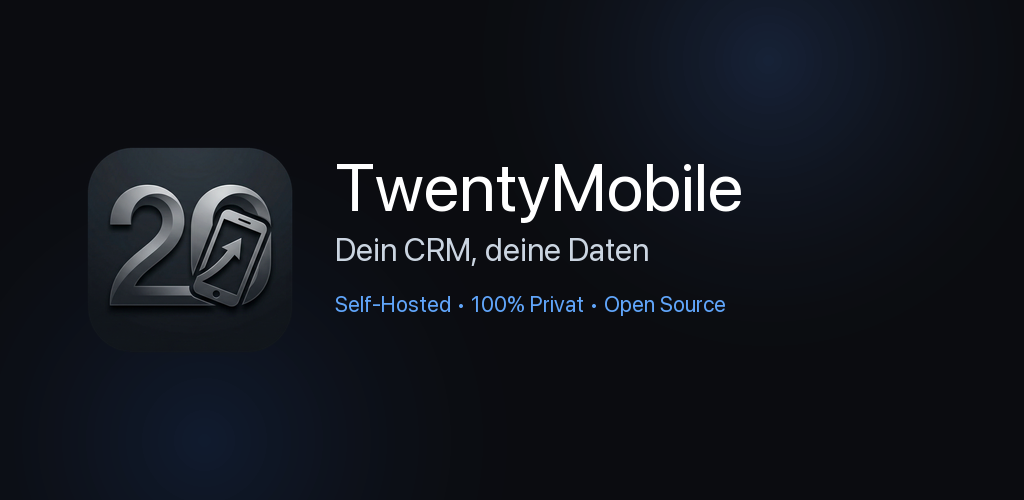
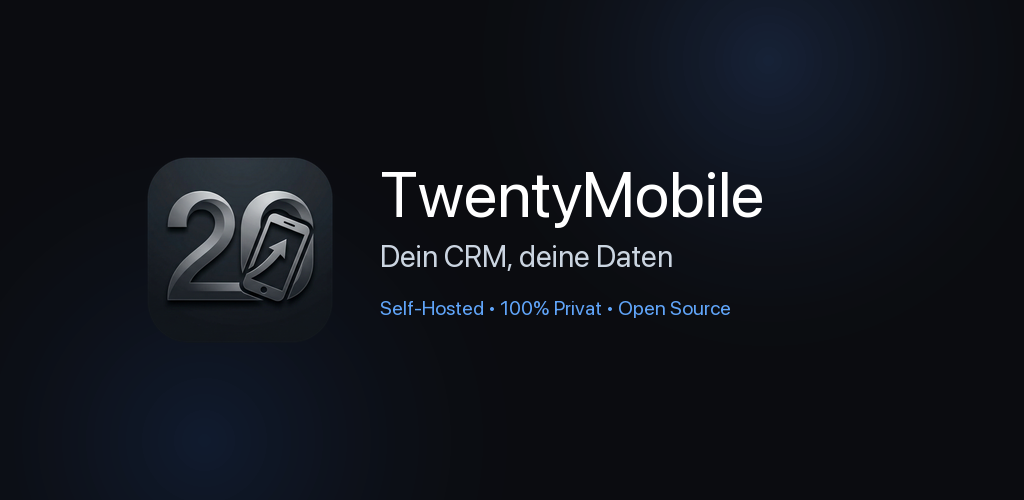
style(store): applica safe area 15% alle feature graphic per visibilita ottimale su Google Play

Changed region(s): [[0.0625, 0.27, 0.75, 0.63], [0.3125, 0.57, 0.7188, 0.63]]

diff --git a/scripts/store/generate_mockups.py b/scripts/store/generate_mockups.py
@@ -699,7 +699,7 @@ def render_dual_mockup(cfg_profile, slide_idx, text_data, raw_screen_left, raw_s
 
 
 def generate_feature_graphic(loc_dir, copy_item, icon_src):
-    """Feature Graphic Google Play 1024x500 pulita e minimale in stile Twenty CRM."""
+    """Feature Graphic Google Play 1024x500 con Safe Area e ampi margini esterni (~15%)."""
     w, h = 1024, 500
     fg = create_twenty_gradient(w, h)
     
@@ -716,29 +716,29 @@ def generate_feature_graphic(loc_dir, copy_item, icon_src):
     icon_clean = Image.new("RGBA", icon_master.size, (0, 0, 0, 0))
     icon_clean.paste(icon_master, (0, 0), mask)
     
-    icon_sz = 210
+    # Icona con margini safe aumentati: x = 145 (14.2% margine sinistro)
+    icon_sz = 190
     icon_img = icon_clean.resize((icon_sz, icon_sz), Image.Resampling.LANCZOS)
-    icon_pos = (85, 145)
+    icon_pos = (145, 155)
     
     fg_rgba = fg.convert("RGBA")
-    # Incolla l'icona pura e pulita: nessun contorno blu, nessuna ombra nera/alone
     fg_rgba.paste(icon_img, icon_pos, icon_img)
     draw = ImageDraw.Draw(fg_rgba)
     
-    # Blocco testi centrato più in alto, allineato con la sommità del logo
-    tx = 335
+    # Blocco testi con safe area: margine sinistro tx = 380, ben distante da tutti i bordi
+    tx = 380
     
-    # 1. Titolo "TwentyMobile" (grande, bianco brillante, posizionato più in alto)
-    t_font = get_font(68, bold=True)
-    draw.text((tx, 145), copy_item["fg_title"], font=t_font, fill=(255, 255, 255))
+    # 1. Titolo "TwentyMobile" (grande, bianco brillante, allineato con il logo)
+    t_font = get_font(64, bold=True)
+    draw.text((tx, 155), copy_item["fg_title"], font=t_font, fill=(255, 255, 255))
     
     # 2. Sottotitolo
-    s_font = get_font(32, bold=False)
-    draw.text((tx, 230), copy_item["fg_sub"], font=s_font, fill=(203, 213, 225))
+    s_font = get_font(30, bold=False)
+    draw.text((tx, 238), copy_item["fg_sub"], font=s_font, fill=(203, 213, 225))
     
     # 3. Punti chiave (privato, self-hosted, open source)
-    f_font = get_font(22, bold=True)
-    draw.text((tx, 290), copy_item["fg_badge"], font=f_font, fill=(96, 165, 250))
+    f_font = get_font(20, bold=True)
+    draw.text((tx, 295), copy_item["fg_badge"], font=f_font, fill=(96, 165, 250))
     
     out_png = loc_dir / "featureGraphic.png"
     fg_rgba.convert("RGB").save(out_png, "PNG", optimize=True)
